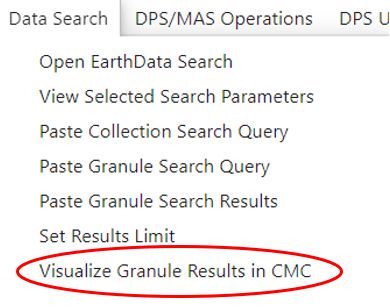
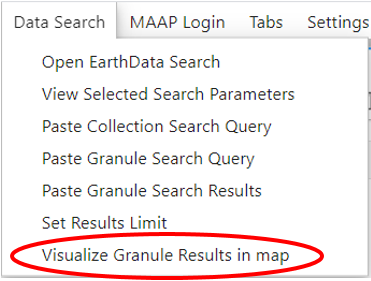
changed cmc to map in edsc extension

diff --git a/edsc_extension/edsc_extension/createLoadGeotiffsFcnCall/README.md b/edsc_extension/edsc_extension/createLoadGeotiffsFcnCall/README.md
@@ -1,12 +1,12 @@
 # README for Visualize Granule Results in CMC option for Data Search Tab
 ![Screenshot of Data Search Tab](screenshotTab.png)
 ## Objective of the function
-The objective of the function is to allow the user to easily visualize the results from their granule search from EarthData Search. Once the user runs a search in EarthData search and clicks on a granule, they can press the "Visualize Granule Results in CMC" button shown above in order to create a function call to `load_geotiffs` with the urls from their granule search results. The urls extracted abide by the user setting the results limit and they are filtered based on certain criteria
+The objective of the function is to allow the user to easily visualize the results from their granule search from EarthData Search. Once the user runs a search in EarthData search and clicks on a granule, they can press the "Visualize Granule Results in map" button shown above in order to create a function call to `load_geotiffs` with the urls from their granule search results. The urls extracted abide by the user setting the results limit and they are filtered based on certain criteria
 
 ###  Criteria for filtering Granule Search Results
 1. The url must begin with an s3 beginning (s3://- specified in`variables.json` in variable `required_starts`)
 2. The url must end in a TIFF ending (.tif, .tiff- specified in `variables.json` in variable `required_ends`)
-3. The url must not contain "orange-business" (specified in `variables.json` in variable `esa_data_location`). This is because there are permission issues when trying to access ESA data in NASA maap and orange business is where ESA hosts their data. 
+3. The url must not contain "orange-business" (specified in `variables.json` in variable `esa_data_location`). This is because there are permission issues when trying to access ESA data in NASA maap and orange business is where ESA hosts their data
 4. The head request using boto3 has a status code of 200 when trying to access the data at the link 
 
 ### Additional functionality

diff --git a/ipycmc/ipycmc/loadGeotiffs/README.md b/ipycmc/ipycmc/loadGeotiffs/README.md
@@ -29,7 +29,7 @@ w.load_geotiffs(urls="", default_tiler_ops={"colormap_name":"autumn", "pixel_sel
    * `TileMatrixSetId`: TileMatrixSet Name (set values that represent a projection), `string`. Can only be certain value specified in `variables.json`
    * `resampling_method`: Resampling method, `string`. Can only be certain value specified in `variables.json`
    * `return_mask`: Add mask to the output data, `boolean`
-   * `rescale`: comma (',') delimited Min,Max bounds, `string`
+   * `rescale`: comma (',') delimited Min,Max bounds, `string`. Values greater than 10 cannot be passed for the max bound
    
     #### Additional arguments you can add that are not typically added as defaults (Note: you can change the defaults by modifying `defaults_tiler` in variables.json:)
    * `minzoom`:  Overwrite default minzoom, `integer`
@@ -125,4 +125,4 @@ The only difference in setting this parameter to True is that the function call 
 ### Troubleshooting
 * Rerun the `load_geotiffs` function if the map layer does not show up the first time.
 * If a layer loads, but you cannot see any tiles, this is likely a CORS policy error and you do not have permission to the data. Another reason this could occur is if you incorrectly add a default argument to the TiTiler such as `bidx` or `rescale`
-* If the tile shows up and is all white with no details, then that is an error with the rescale value passed to the TiTiler
+* If the tile shows up and is all white or all black with no details, then it is likely an error with the rescale value passed to the TiTiler
